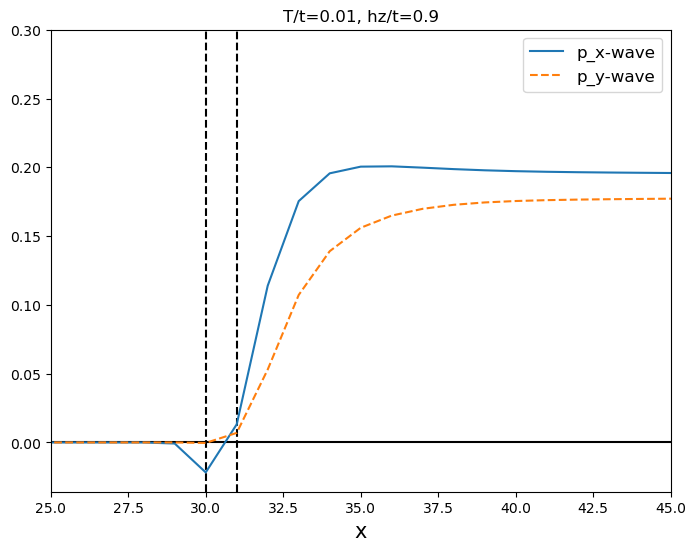
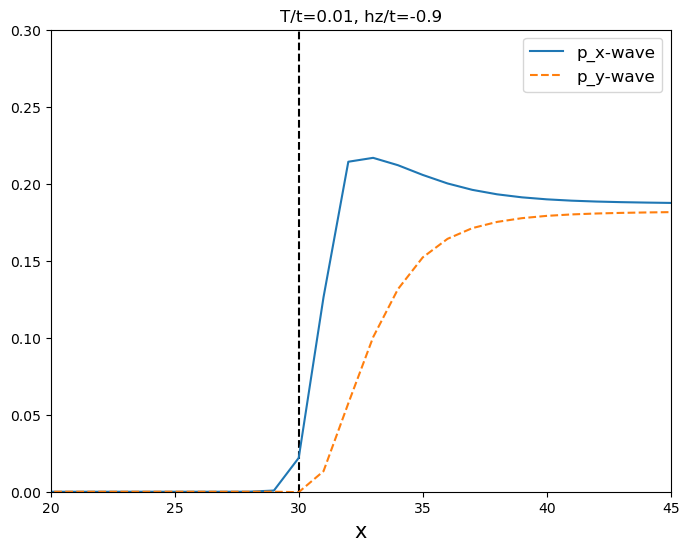
fix sign

diff --git a/scripts/utils.py b/scripts/utils.py
@@ -1,42 +1,7 @@
 import numpy as np
 from scipy.special import expit
-from .constants import s0, s2, PI
 
-
-def tc_search(H, Tmin, Tmax, mu=0, U=2, gap_0=1e-6,
-              tol=1e-6, max_iter=100):
-    block = np.zeros((4, 4), dtype=np.complex128)
-    block[:2, :2] = -mu * s0
-    block[2:, 2:] = mu * s0
-    block[:2, 2:] = -1j * gap_0 * s2
-    block[2:, :2] = (-1j * gap_0 * s2).conj().T
-
-    Tc = 0
-    Tc_list = []  # store midpoint values
-    T_high_list = []
-    T_low_list = []
-    for n in range(max_iter):
-        for i in range(H.lattice.num_sites):
-            H.set_block(i, i, block)
-
-        T_half = (Tmax + Tmin) / 2
-        Tc_list.append(float(T_half))  # save current midpoint
-        T_high_list.append(float(Tmax))
-        T_low_list.append(float(Tmin))
-        gap_new = np.mean(H.bdg_self_consistency(U, T_half, max_iter=1))
-
-        if gap_0 < gap_new:
-            Tmin = T_half
-        else:
-            Tmax = T_half
-
-        if np.abs(T_half - Tc) < tol:
-            Tc = T_half
-            print(f"Converged after {n+1} iterations")
-            break
-        Tc = T_half
-
-    return Tc, Tc_list, T_high_list, T_low_list
+from .constants import PI
 
 
 def sl(i_site: int, comp: int) -> int:

diff --git a/scripts/tc_search.py b/scripts/tc_search.py
@@ -1,0 +1,34 @@
+import numpy as np
+from .hamiltonian import Hamiltonian
+from .self_consistency import bdg_sc
+
+
+def tc_search(H: Hamiltonian, gap_0,
+              Tmin, Tmax, symmetry,
+              tol=1e-6, max_iter=100):
+
+    Tc = 0
+    Tc_list = []  # store midpoint values
+    T_high_list = []
+    T_low_list = []
+    for n in range(max_iter):
+        T_half = (Tmax + Tmin) / 2
+        Tc_list.append(float(T_half))  # save current midpoint
+        T_high_list.append(float(Tmax))
+        T_low_list.append(float(Tmin))
+
+        F_swave, F_dwave, F_px, F_py = bdg_sc(H, T_half, maxiter=1)
+
+        if symmetry == 'swave':
+            if gap_0 < F_swave:
+                Tmin = T_half
+            else:
+                Tmax = T_half
+
+        if np.abs(T_half - Tc) < tol:
+            Tc = T_half
+            print(f"Converged after {n+1} iterations")
+            break
+        Tc = T_half
+
+    return Tc, Tc_list, T_high_list, T_low_list

diff --git a/scripts/hamiltonian.py b/scripts/hamiltonian.py
@@ -278,10 +278,10 @@ class Hamiltonian:
         H = np.zeros((self.dim, self.dim), dtype=np.complex128)
 
         for i in range(self.lattice.X):
-            H[sl(i, 0), sl(i, 0)] = -self.mu[i] + self.hz[i]
-            H[sl(i, 1), sl(i, 1)] = -self.mu[i] - self.hz[i]
-            H[sl(i, 2), sl(i, 2)] = self.mu[i] - self.hz[i]
-            H[sl(i, 3), sl(i, 3)] = self.mu[i] + self.hz[i]
+            H[sl(i, 0), sl(i, 0)] = -self.mu[i] - self.hz[i]
+            H[sl(i, 1), sl(i, 1)] = -self.mu[i] + self.hz[i]
+            H[sl(i, 2), sl(i, 2)] = self.mu[i] + self.hz[i]
+            H[sl(i, 3), sl(i, 3)] = self.mu[i] - self.hz[i]
 
             H[sl(i, 0), sl(i, 1)] = self.hx[i] + 1j * self.hy[i]
             H[sl(i, 1), sl(i, 0)] = self.hx[i] - 1j * self.hy[i]

diff --git a/cluster/scripts/run_np.py b/cluster/scripts/run_np.py
@@ -62,11 +62,11 @@ def main():
         f"data/NP/temp_{idx:04d}.npz",
         idx=idx,
         temp=temp,
-        F0=F0[np.round(widthN+widthP/2)],
-        F_swave=F_swave[np.round(widthN+widthP/2)],
-        F_dwave=F_dwave[np.round(widthN+widthP/2)],
-        F_px=F_px[np.round(widthN+widthP/2)],
-        F_py=F_py[np.round(widthN+widthP/2)],
+        F0=F0[int(widthN+widthP/2)],
+        F_swave=F_swave[int(widthN+widthP/2)],
+        F_dwave=F_dwave[int(widthN+widthP/2)],
+        F_px=F_px[int(widthN+widthP/2)],
+        F_py=F_py[int(widthN+widthP/2)],
     )
 
     # save parameters for inspection
